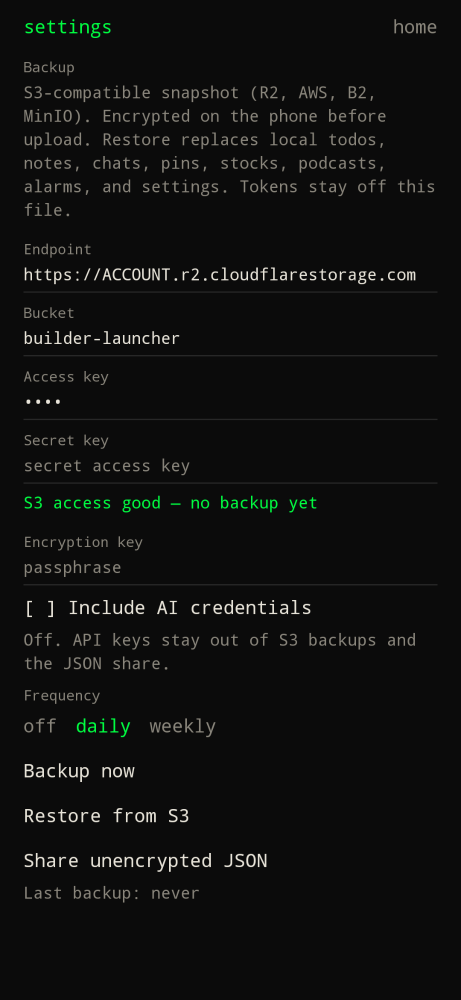
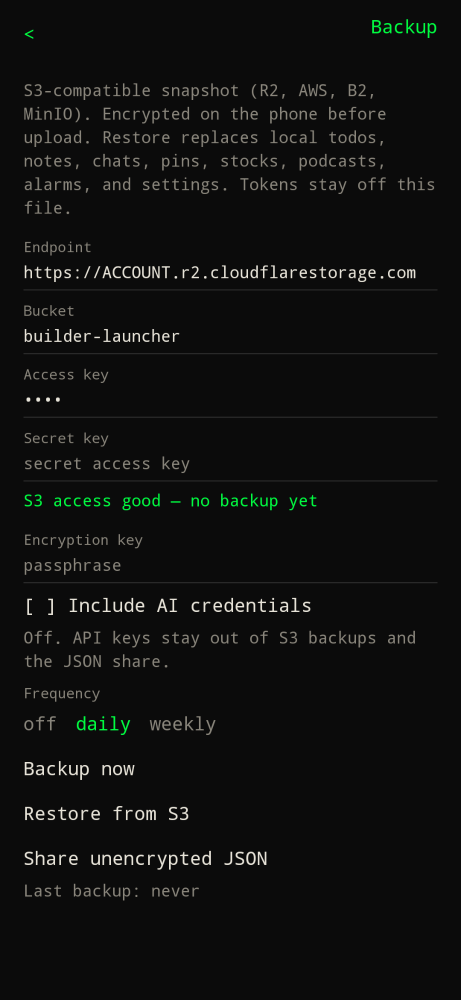
feat: move backup onto a dedicated settings screen (#102)
Settings keeps a caret like AI providers. S3 fields, restore,
and the JSON share live on Backup, with back to settings.

diff --git a/app/src/main/java/xyz/cdr/builderlauncher/ui/BuilderRoot.kt b/app/src/main/java/xyz/cdr/builderlauncher/ui/BuilderRoot.kt
@@ -216,7 +216,7 @@ import java.util.Calendar
 import java.util.Date
 import java.util.Locale
 
-enum class Page { Home, Todos, Notes, NoteEditor, Hub, Settings, AiSettings, Apps, Stocks, StockDetail, StockSettings, Podcasts, PodcastShow, PodcastEpisode, PodcastSettings, Chat, ChatHistory, Clock, Weather, Usage }
+enum class Page { Home, Todos, Notes, NoteEditor, Hub, Settings, AiSettings, BackupSettings, Apps, Stocks, StockDetail, StockSettings, Podcasts, PodcastShow, PodcastEpisode, PodcastSettings, Chat, ChatHistory, Clock, Weather, Usage }
 
 private var lastPage: Page = Page.Home
 
@@ -2458,9 +2458,9 @@ fun BuilderRoot(
                     hardware = hardware,
                     onBack = { page = Page.Home },
                     onOpenAi = { page = Page.AiSettings },
+                    onOpenBackup = { page = Page.BackupSettings },
                     repo = settingsRepo,
                     weather = weather,
-                    backup = backup,
                     onRequestHome = onRequestHome,
                 )
             }
@@ -2470,6 +2470,14 @@ fun BuilderRoot(
                     onBack = { page = Page.Settings },
                     repo = settingsRepo,
                     oauth = oauth,
+                )
+            }
+            Page.BackupSettings -> {
+                BackupSettingsPage(
+                    settings = settings,
+                    onBack = { page = Page.Settings },
+                    repo = settingsRepo,
+                    backup = backup,
                 )
             }
             Page.Stocks -> {
@@ -3769,9 +3777,9 @@ private fun SettingsPage(
     hardware: Boolean,
     onBack: () -> Unit,
     onOpenAi: () -> Unit,
+    onOpenBackup: () -> Unit,
     repo: SettingsRepository,
     weather: WeatherRepository,
-    backup: BackupService,
     onRequestHome: () -> Unit,
 ) {
     val ctx = LocalContext.current
@@ -3779,24 +3787,6 @@ private fun SettingsPage(
     var placeQuery by remember { mutableStateOf(settings.weatherPlace) }
     var suggestions by remember { mutableStateOf<List<WeatherPlace>>(emptyList()) }
     var accentDraft by remember { mutableStateOf(settings.accentHex) }
-    var s3Endpoint by remember { mutableStateOf(settings.s3Endpoint) }
-    var s3Bucket by remember { mutableStateOf(settings.s3Bucket) }
-    var s3Access by remember { mutableStateOf(settings.s3AccessKey) }
-    var s3Secret by remember { mutableStateOf(settings.s3SecretKey) }
-    var s3Encryption by remember { mutableStateOf(settings.s3EncryptionKey) }
-    var backupMsg by remember { mutableStateOf<String?>(null) }
-    var backupBusy by remember { mutableStateOf(false) }
-    var confirmRestore by remember { mutableStateOf(false) }
-    var s3Probe by remember { mutableStateOf<S3Access>(S3Access.Idle) }
-    LaunchedEffect(settings.s3Endpoint, settings.s3Bucket, settings.s3AccessKey, settings.s3SecretKey, settings.s3EncryptionKey) {
-        if (!S3Signer.credentialsReady(settings.s3Endpoint, settings.s3Bucket, settings.s3AccessKey, settings.s3SecretKey)) {
-            s3Probe = S3Access.Idle
-            return@LaunchedEffect
-        }
-        s3Probe = S3Access.Testing
-        delay(700)
-        s3Probe = withContext(Dispatchers.IO) { backup.probe() }
-    }
     LaunchedEffect(placeQuery, settings.weatherPlace, settings.weatherLat) {
         val q = placeQuery.trim()
         if (q.length < 2 || (q == settings.weatherPlace && settings.weatherLat != null)) {
@@ -3996,13 +3986,93 @@ private fun SettingsPage(
             color = Dim,
             style = MaterialTheme.typography.bodyMedium,
         )
+        Spacer(Modifier.height(16.dp))
+        CaretLink(
+            "… backup >",
+            modifier = Modifier
+                .clickable { onOpenBackup() }
+                .padding(vertical = 6.dp)
+                .fillMaxWidth(),
+        )
+        Text(
+            "Last backup: ${BackupService.lastBackupLabel(settings.lastBackupAtEpochMs)}",
+            color = Dim,
+            style = MaterialTheme.typography.bodyMedium,
+        )
         Spacer(Modifier.height(20.dp))
-        Text("Backup", color = Dim, style = MaterialTheme.typography.labelSmall)
+        Text(
+            "Notification access (hub)",
+            color = Paper,
+            modifier = Modifier.clickable {
+                ctx.startActivity(
+                    android.content.Intent(Settings.ACTION_NOTIFICATION_LISTENER_SETTINGS)
+                        .addFlags(android.content.Intent.FLAG_ACTIVITY_NEW_TASK),
+                )
+            },
+        )
+        Spacer(Modifier.height(12.dp))
+        Text(
+            "Usage access",
+            color = Paper,
+            modifier = Modifier.clickable {
+                ctx.startActivity(
+                    android.content.Intent(Settings.ACTION_USAGE_ACCESS_SETTINGS)
+                        .addFlags(android.content.Intent.FLAG_ACTIVITY_NEW_TASK),
+                )
+            },
+        )
+        Spacer(Modifier.height(12.dp))
+        Text(
+            "Set as default home app",
+            color = Paper,
+            modifier = Modifier.clickable { onRequestHome() },
+        )
+        Spacer(Modifier.height(24.dp))
+        Text("Tokens stay on the device. They are sent only as a Bearer token to the provider you chose.", color = Dim, style = MaterialTheme.typography.bodyMedium)
+    }
+}
+
+@Composable
+private fun BackupSettingsPage(
+    settings: BuilderSettings,
+    onBack: () -> Unit,
+    repo: SettingsRepository,
+    backup: BackupService,
+) {
+    val scope = rememberCoroutineScope()
+    var s3Endpoint by remember { mutableStateOf(settings.s3Endpoint) }
+    var s3Bucket by remember { mutableStateOf(settings.s3Bucket) }
+    var s3Access by remember { mutableStateOf(settings.s3AccessKey) }
+    var s3Secret by remember { mutableStateOf(settings.s3SecretKey) }
+    var s3Encryption by remember { mutableStateOf(settings.s3EncryptionKey) }
+    var backupMsg by remember { mutableStateOf<String?>(null) }
+    var backupBusy by remember { mutableStateOf(false) }
+    var confirmRestore by remember { mutableStateOf(false) }
+    var s3Probe by remember { mutableStateOf<S3Access>(S3Access.Idle) }
+    LaunchedEffect(settings.s3Endpoint, settings.s3Bucket, settings.s3AccessKey, settings.s3SecretKey, settings.s3EncryptionKey) {
+        if (!S3Signer.credentialsReady(settings.s3Endpoint, settings.s3Bucket, settings.s3AccessKey, settings.s3SecretKey)) {
+            s3Probe = S3Access.Idle
+            return@LaunchedEffect
+        }
+        s3Probe = S3Access.Testing
+        delay(700)
+        s3Probe = withContext(Dispatchers.IO) { backup.probe() }
+    }
+
+    Column(modifier = Modifier.fillMaxSize().verticalScroll(rememberScrollState())) {
+        Row(Modifier.fillMaxWidth(), horizontalArrangement = Arrangement.SpaceBetween) {
+            Text(
+                "<",
+                color = Accent,
+                modifier = Modifier.clickable { onBack() }.padding(vertical = 6.dp),
+            )
+            Text("Backup", color = Accent)
+        }
+        Spacer(Modifier.height(16.dp))
         Text(
             "S3-compatible snapshot (R2, AWS, B2, MinIO). Encrypted on the phone before upload. Restore replaces todos, notes, chats, pins, stocks, podcasts, alarms, and settings. OAuth tokens stay on this phone.",
             color = Dim,
             style = MaterialTheme.typography.bodyMedium,
-            modifier = Modifier.padding(top = 6.dp),
         )
         LabeledField("Endpoint", s3Endpoint, "https://ACCOUNT.r2.cloudflarestorage.com") {
             s3Endpoint = it
@@ -4124,36 +4194,6 @@ private fun SettingsPage(
         backupMsg?.let {
             Text(it, color = Dim, style = MaterialTheme.typography.bodyMedium, modifier = Modifier.padding(top = 6.dp))
         }
-        Spacer(Modifier.height(20.dp))
-        Text(
-            "Notification access (hub)",
-            color = Paper,
-            modifier = Modifier.clickable {
-                ctx.startActivity(
-                    android.content.Intent(Settings.ACTION_NOTIFICATION_LISTENER_SETTINGS)
-                        .addFlags(android.content.Intent.FLAG_ACTIVITY_NEW_TASK),
-                )
-            },
-        )
-        Spacer(Modifier.height(12.dp))
-        Text(
-            "Usage access",
-            color = Paper,
-            modifier = Modifier.clickable {
-                ctx.startActivity(
-                    android.content.Intent(Settings.ACTION_USAGE_ACCESS_SETTINGS)
-                        .addFlags(android.content.Intent.FLAG_ACTIVITY_NEW_TASK),
-                )
-            },
-        )
-        Spacer(Modifier.height(12.dp))
-        Text(
-            "Set as default home app",
-            color = Paper,
-            modifier = Modifier.clickable { onRequestHome() },
-        )
-        Spacer(Modifier.height(24.dp))
-        Text("Tokens stay on the device. They are sent only as a Bearer token to the provider you chose.", color = Dim, style = MaterialTheme.typography.bodyMedium)
     }
 }
 

diff --git a/app/src/main/java/xyz/cdr/builderlauncher/ui/LauncherChrome.kt b/app/src/main/java/xyz/cdr/builderlauncher/ui/LauncherChrome.kt
@@ -1589,6 +1589,9 @@ fun SettingsChrome(
             color = Dim,
             style = MaterialTheme.typography.bodyMedium,
         )
+        Spacer(Modifier.height(16.dp))
+        CaretLink("… backup >", modifier = Modifier.fillMaxWidth().padding(vertical = 6.dp))
+        Text("Last backup: never", color = Dim, style = MaterialTheme.typography.bodyMedium)
         Spacer(Modifier.height(20.dp))
         Text("Notification access (hub)", color = Paper)
         Spacer(Modifier.height(12.dp))
@@ -1619,11 +1622,10 @@ fun BackupChrome(
             .padding(horizontal = 20.dp, vertical = 12.dp),
     ) {
         Row(Modifier.fillMaxWidth(), horizontalArrangement = Arrangement.SpaceBetween) {
-            Text("settings", color = Accent)
-            Text("home", color = Dim)
+            Text("<", color = Accent, modifier = Modifier.padding(vertical = 6.dp))
+            Text("Backup", color = Accent)
         }
         Spacer(Modifier.height(16.dp))
-        Text("Backup", color = Dim, style = MaterialTheme.typography.labelSmall)
         Text(
             "S3-compatible snapshot (R2, AWS, B2, MinIO). Encrypted on the phone before upload. Restore replaces local todos, notes, chats, pins, stocks, podcasts, alarms, and settings. Tokens stay off this file.",
             color = Dim,

diff --git a/README.md b/README.md
@@ -111,7 +111,7 @@ Nothing is sent anywhere until you type `?`. No analytics.
 
 ## Backup
 
-Settings → Backup. Optional S3-compatible snapshot (R2, AWS, B2, MinIO): endpoint, bucket, access key, secret key, encryption key, frequency `off` / `daily` / `weekly`. Encrypted on the phone before upload. Restore replaces local todos, notes, chats, pins, stocks, podcasts, alarms, and settings. **Include AI credentials** is off by default. **Share unencrypted JSON** uses the Android share sheet (email, Signal, another program).
+Settings → **… backup >**. Optional S3-compatible snapshot (R2, AWS, B2, MinIO): endpoint, bucket, access key, secret key, encryption key, frequency `off` / `daily` / `weekly`. Encrypted on the phone before upload. Restore replaces local todos, notes, chats, pins, stocks, podcasts, alarms, and settings. **Include AI credentials** is off by default. **Share unencrypted JSON** uses the Android share sheet (email, Signal, another program).
 
 ## Keyboard phones
 

diff --git a/website/src/content/docs/configure/settings.md b/website/src/content/docs/configure/settings.md
@@ -17,7 +17,7 @@ Type `settings` or `/settings`.
 | Weather location | Type a city, pick a match. Placeholder: New York. No GPS required. |
 | Weather units | `metric` (Celsius) or `imperial` (Fahrenheit). |
 | Clock sound | `pulse`, `chime`, `bell`, `orthodox`, `hum`, or `off`. Tap a name to hear it. Each tone is a 10-30s loop. Alarms fade in over 4 seconds. |
-| Backup | S3-compatible encrypted snapshot, restore, and unencrypted JSON share. [Details](backup/). |
+| Backup | `… backup >` opens the dedicated screen. S3 snapshot, restore, and JSON share. [Details](backup/). |
 | Notification access (hub) | Opens Android's notification listener settings. |
 | Usage access | Opens Android's usage-access settings so [usage](../use/usage/) can read screen time. |
 | Set as default home app | Asks Android again if you declined the first prompt. |

diff --git a/website/src/content/docs/configure/backup.md b/website/src/content/docs/configure/backup.md
@@ -3,7 +3,7 @@ title: Backup
 description: Encrypted S3 snapshot, restore, and unencrypted JSON share.
 ---
 
-Type `settings` or `/settings`, then scroll to **Backup**.
+Type `settings` or `/settings`, then **… backup >**.
 
 ![Backup: S3 endpoint, keys, frequency, share](../../../assets/screenshots/backup.png)
 
